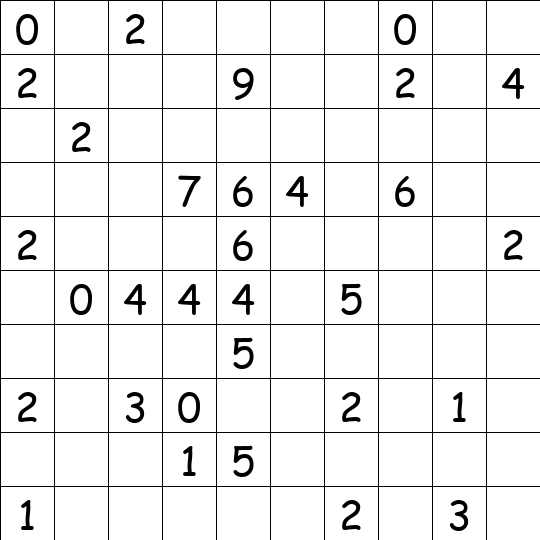
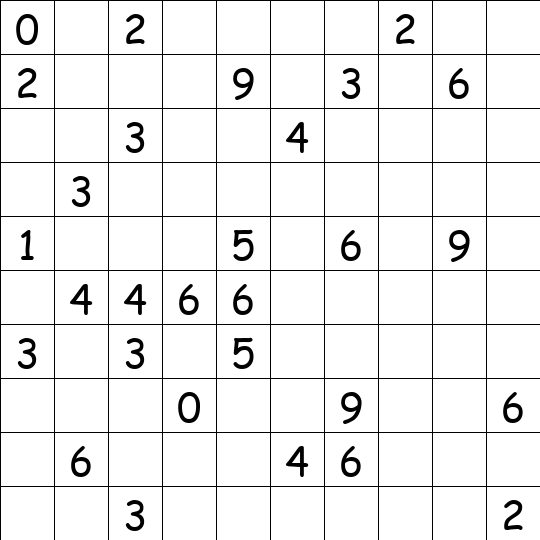
Fixed Board Generation bug, should all work now

diff --git a/generator/mosaicSolver.py b/generator/mosaicSolver.py
@@ -653,21 +653,27 @@ class Solver:
         # => There ought not to be any 9x9 area in our puzzle that isn't covered by any clue
 
         # Fill matrix with -1 where ever a clue is in a 9x9 area
-        self.constructed_solution = [[0 for j in range(self.board_size)] for i in range(self.board_size)]
+        empty_squares = [[0 for j in range(self.board_size)] for i in range(self.board_size)]
         x = 0
 
         for row in self.clues:
             y = 0
             for col in row:
                 if col <= 0:
-                    self.restrict_around(x,y)
+                    for i in range(0, 9):
+                        pos = number_to_9x9(i)
+                        _x = x + pos[0]
+                        _y = y + pos[1]
+
+                        if not self.is_out_of_bounds(_x, _y):
+                            empty_squares[_x][_y] = -1
                 y += 1
             x += 1
-        #self.print_board(self.constructed_solution)
+        #self.print_board(empty_squares)
 
         x = 0
         # Where ever there is a 0, we need put a clue around
-        for row in self.constructed_solution:
+        for row in empty_squares:
             y = 0
             for col in row:
                 if col == 0:
@@ -680,7 +686,13 @@ class Solver:
                     self.pick_clue_at(rand_x, rand_y)
 
                     # Restrict Further
-                    self.restrict_around(rand_x,rand_y)
+                    for i in range(0, 9):
+                        pos = number_to_9x9(i)
+                        _x = rand_x + pos[0]
+                        _y = rand_y + pos[1]
+
+                        if not self.is_out_of_bounds(_x, _y):
+                            empty_squares[_x][_y] = -1
 
                 y += 1
             x += 1

diff --git a/generator/mosaicGenerator.py b/generator/mosaicGenerator.py
@@ -120,7 +120,7 @@ def draw_window(surface, board):
 def main():
 
     size = 10
-    quantity = 15
+    quantity = 9
     prob = 0.5
     num_inst = 5
     fname = "instances/"
